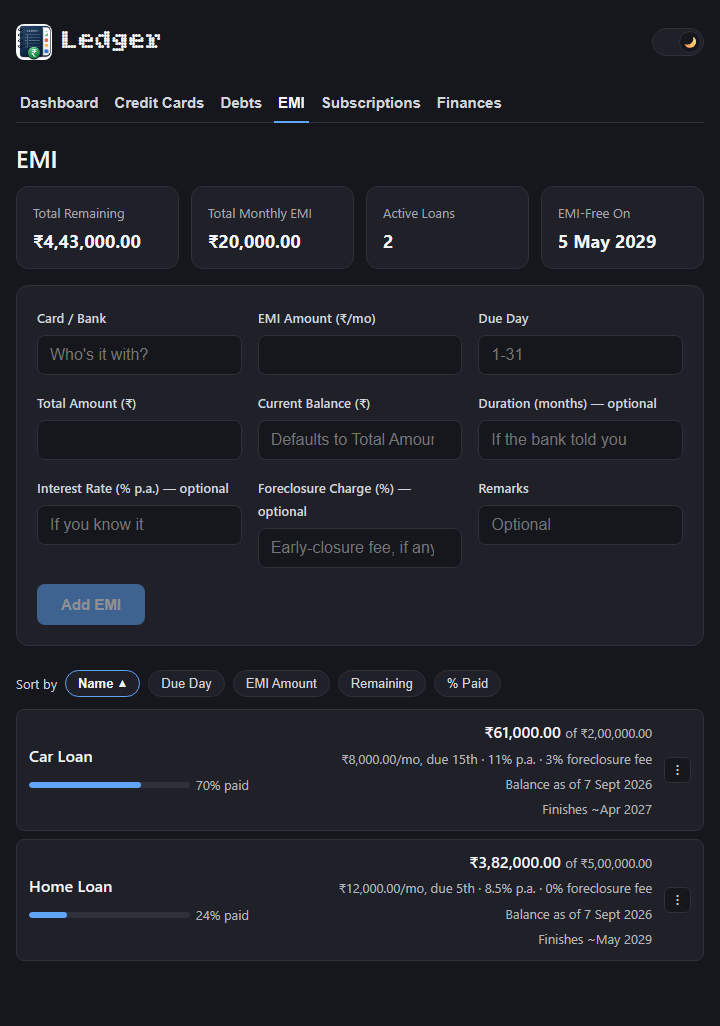
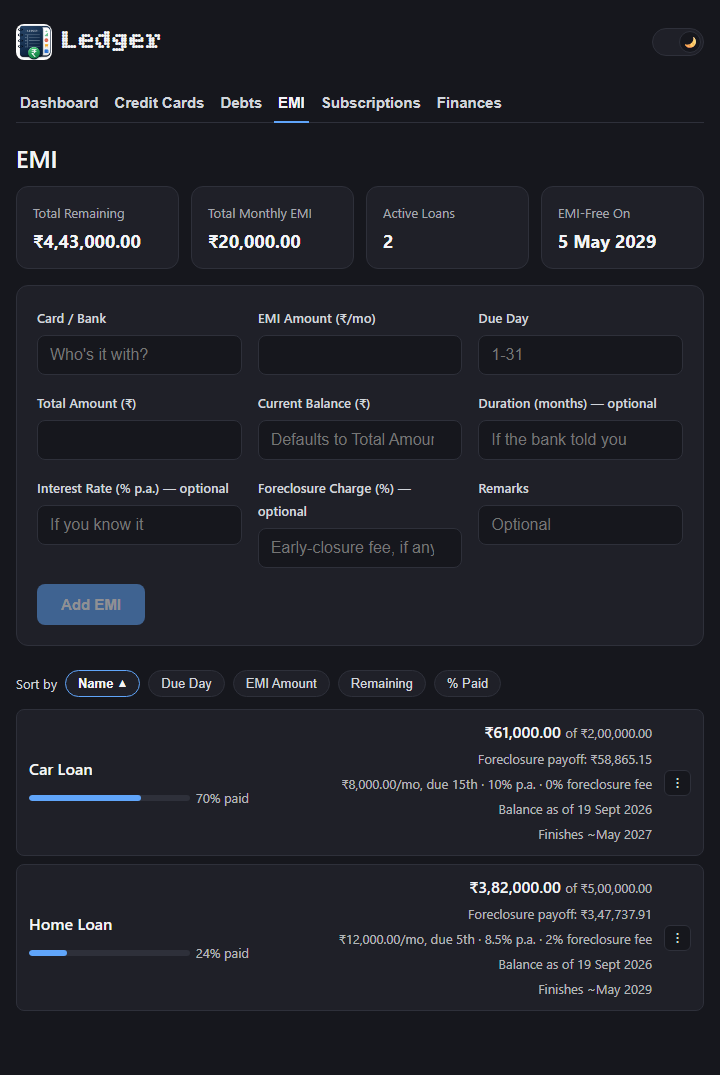
docs: catch up all docs/screenshots with the sign-toggle and EMI scale features
Debts and Finances screenshots were still showing the old
placeholder-based amount input (no sign toggle at all), and the EMI
screenshot's two demo loans had interest rates set but predated the
foreclosurePayoff feature, so its 'Foreclosure payoff' line never
rendered. Dashboard screenshot didn't show the new Upcoming EMIs
scale dropdown, and needed real expense data seeded too (dark-mode
Recharts bars render invisible without a tab remount after a theme
toggle - a real rendering quirk, worked around the same way the
working screenshot script already did: navigate away and back).

All four regenerated via an isolated scratch-data worktree with the
same kind of fictional demo data this doc already used elsewhere
(Alex/Sam, Visa Rewards/Amex Gold, Car Loan/Home Loan), in this
branch's own full-page/720px screenshot convention.

README's savings-delta description still said 'you type a +/- change'
- updated to describe the toggle, plus a new Notes/gotchas entry
explaining why (a phone's numeric keypad has no '-' key). ARCHITECTURE.md
now mentions SignedAmountInput alongside the other shared components.

diff --git a/README.md b/README.md
@@ -268,15 +268,18 @@ auto-advances forward to the next real cycle, never silently going stale:
   - **Current Savings** — named scheme balances (PPF, NPS, APY, etc.),
     summed automatically into a total. Entry is delta-based, not absolute:
     each scheme shows its last known balance (carried forward from
-    whichever month it was last touched) and you type a **+/− change** —
-    a deposit or a withdrawal — and the app computes and stores the new
-    absolute balance for you. For a scheme with no prior balance yet, the
-    first amount you type simply becomes its starting balance (baseline
-    zero). The underlying data is still a plain absolute balance per
-    scheme per month — only entry is delta-based — so a scheme's real
-    figure can always be corrected by typing whatever delta reconciles it
-    to your actual passbook/statement, rather than drifting permanently out
-    of sync the way a pure running-total ledger would. The set of schemes
+    whichever month it was last touched) and you pick **Deposit** or
+    **Withdrawal** and type the change — the app computes and stores the
+    new absolute balance for you. Sign is a toggle, not something you type,
+    since a phone's numeric keypad has no "-" key at all (see
+    [SignedAmountInput](#notes--gotchas) below). For a scheme with no prior
+    balance yet, the first amount you enter simply becomes its starting
+    balance (baseline zero). The underlying data is still a plain absolute
+    balance per scheme per month — only entry is delta-based — so a
+    scheme's real figure can always be corrected by entering whatever
+    deposit/withdrawal reconciles it to your actual passbook/statement,
+    rather than drifting permanently out of sync the way a pure
+    running-total ledger would. The set of schemes
     isn't fixed — add or remove one freely as your actual savings mix
     changes. Whichever month's breakdown was most recently entered carries
     forward across later months until you update it again, rather than
@@ -908,6 +911,14 @@ and never touch the real `Expenses` folder.
   both run `scripts/kill-ports.js` automatically before starting, so the
   *next* launch always clears anything left over. Run `npm run stop`
   directly if you want to clean up without immediately restarting.
+- A phone's numeric/decimal on-screen keyboard has no "-" key at all —
+  `<input type="number">` for a signed amount (Debts, the savings delta
+  above) made entering a negative value flat-out impossible on iOS. Both
+  now use a shared `SignedAmountInput` component: an explicit two-button
+  sign toggle (You owe/Owed to you, Deposit/Withdrawal) plus a
+  magnitude-only field that never needs a minus sign, which also reads
+  more clearly than the old implicit "+/-" prefix convention did, even on
+  desktop.
 
 ## History: retiring Expense Summary.xlsm
 

diff --git a/ARCHITECTURE.md b/ARCHITECTURE.md
@@ -238,7 +238,11 @@ gives every entry.
   (inline edit, swapped in for the row being edited). Shared row-action
   affordances (Edit/Delete/Copy/etc.) go through `OverflowMenu.tsx`, a
   generic `items: {label, onClick, ...}[]` menu, not a bespoke dropdown per
-  tab.
+  tab. A signed amount (Debts, the Finances savings delta) goes through
+  `SignedAmountInput.tsx` rather than a plain `<input type="number">` —
+  splitting sign (an explicit two-button toggle) from magnitude sidesteps a
+  phone's numeric keypad having no "-" key at all, which made a negative
+  value impossible to type on iOS.
 - **CSS**: one file per component, co-located (e.g. `Debts.css` next to
   `Debts.tsx`), imported directly (Vite bundles them into one global
   stylesheet, so anything genuinely shared lives in `shared.css` instead of
